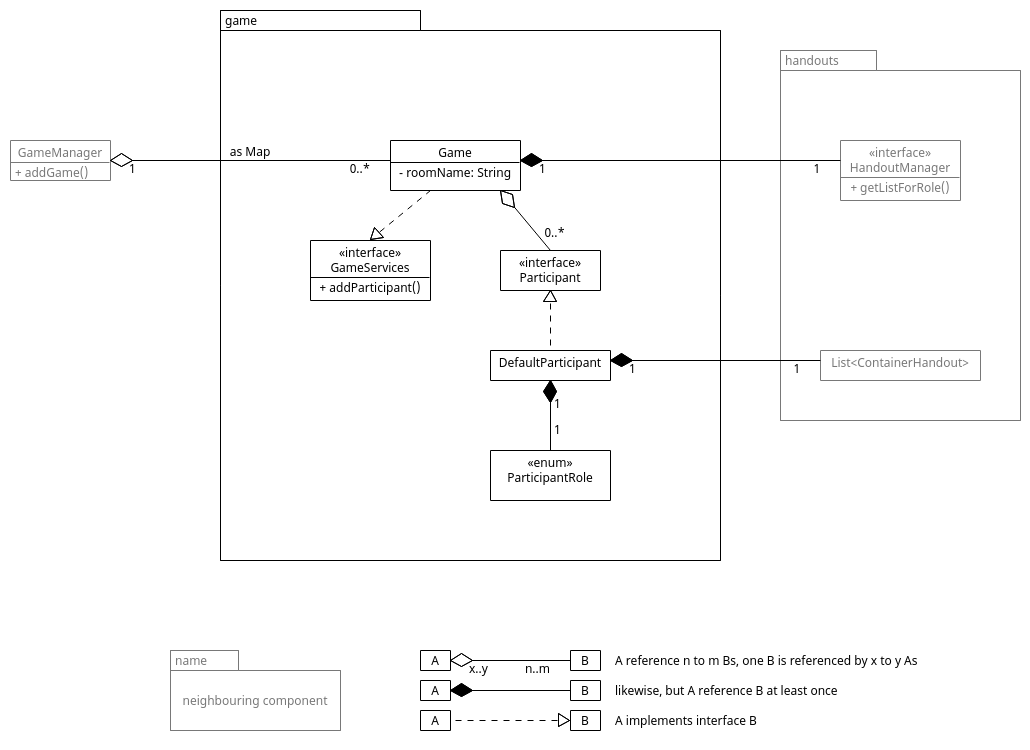
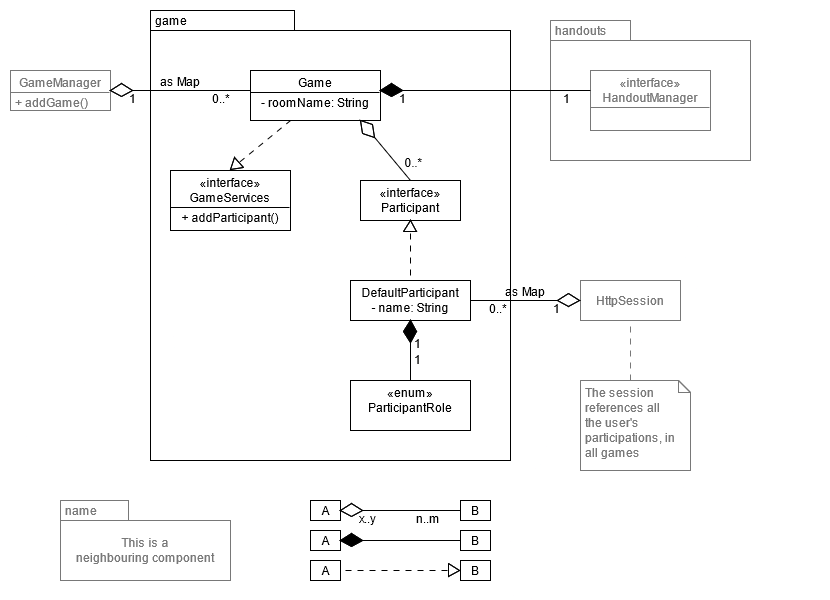
Streamlined architecture of the handouts component
A list of HandoutAccessGuards is now used for building user specific
views on the list of handouts. A direct access to such views from the
class Participant is not necessary anymore.

diff --git a/src/main/java/dev/dragonstb/scribevttrpg/game/handouts/DefaultHandoutManager.java b/src/main/java/dev/dragonstb/scribevttrpg/game/handouts/DefaultHandoutManager.java
@@ -28,7 +28,9 @@ package dev.dragonstb.scribevttrpg.game.handouts;
 
 import dev.dragonstb.scribevttrpg.game.ParticipantRole;
 import java.util.ArrayList;
+import java.util.HashMap;
 import java.util.List;
+import java.util.Map;
 import org.springframework.lang.NonNull;
 
 /**
@@ -40,14 +42,23 @@ public class DefaultHandoutManager implements HandoutManager {
 
     /** List of all handouts. This is the list the gm acts on. */
     private final List<ContainerHandout> allHandouts = new ArrayList<>();
+
+    /** List of the handout gards that track the access rights. */
+    private final Map<String, HandoutAccessGuard> guards = new HashMap<>();
+
     /** The list of handouts the spectators can sse. Entries of this list are a subset of the entries in
-     * {@code allHandouts}. */
+     * {@code allHandouts}.
+     @deprecated since 0.0.6 Access now managed by a list of {@link HandoutAccessGuards}.*/
+    @Deprecated
     private final List<ContainerHandout> spectatorHandouts = new ArrayList<>();
     /** For each player, a list of handouts the player can see. Each entry in any of these lists is also an entry in
-     * {@code allHandouts}. */
+     * {@code allHandouts}.
+     @deprecated since 0.0.6 Access now managed by a list of {@link HandoutAccessGuards}.*/
+    @Deprecated
     private final List<List<ContainerHandout>> playerLists = new ArrayList<>();
 
     @Override
+    @Deprecated
     public List<ContainerHandout> getListForRole(ParticipantRole role) {
         List<ContainerHandout> list = switch( role ) {
             case gm -> {
@@ -70,8 +81,10 @@ public class DefaultHandoutManager implements HandoutManager {
      * @author Dragonstb
      * @since 0.0.4;
      * @return The list of all handouts.
+     * @deprecated since 0.0.6 Access to individual handout pieces is now managed by a list of {@link HandoutAccessGuards}.
      */
     @NonNull
+    @Deprecated
     List<ContainerHandout> getAllHandouts() {
         // TODO: do we need this method outside of unit tests?
         return allHandouts;
@@ -81,8 +94,10 @@ public class DefaultHandoutManager implements HandoutManager {
      * @author Dragonstb
      * @since 0.0.4;
      * @return The list of handouts the spectators can read.
+     * @deprecated since 0.0.6 Access to individual handout pieces is now managed by a list of {@link HandoutAccessGuards}.
      */
     @NonNull
+    @Deprecated
     List<ContainerHandout> getSpectatorHandouts() {
         // TODO: do we need this method outside of unit tests?
         return spectatorHandouts;
@@ -92,11 +107,45 @@ public class DefaultHandoutManager implements HandoutManager {
      * @author Dragonstb
      * @since 0.0.4;
      * @return The list of lists of handouts for players. Each player has his/her own list.
+     * @deprecated since 0.0.6 Access to individual handout pieces is now managed by a list of {@link HandoutAccessGuards}.
      */
     @NonNull
+    @Deprecated
     List<List<ContainerHandout>> getPlayerLists() {
         // TODO: do we need this method outside of unit tests?
         return playerLists;
     }
 
+    @Override
+    public void addHandout( @NonNull ContainerHandout handout ) {
+        List<AbstractHandoutPiece> preleminaryList = new ArrayList<>();
+        addPiece( handout, preleminaryList ); // populates preleminaryMap, may throw IllegalArgumentException
+        preleminaryList.forEach( piece -> {
+            HandoutAccessGuard guard = new HandoutAccessGuard( piece );
+            guards.put( piece.getId(), guard );
+        });
+        allHandouts.add( handout );
+    }
+
+    /** Checks if the ID of any of the handout pieces in the argument ({@code piece} can be a container) is already
+     * listet in {@code guards}. If the argument is indeed a container, this becomes flattened.
+     * @author Dragonstb
+     * @param piece The handout piece that becomes added eventually.
+     * @param preleminaryList In the end, a flattened list of the handout pieces in case {@code piece} is a
+     * {@link dev.dragonstb.scribevttrpg.game.handouts.ContainerHandout ContainerHandout}. Enter an empty list here. The
+     * argument and all nested pieces are added to this list.
+     * @throws IllegalArgumentException When an ID is already taken.
+     */
+    private void addPiece( @NonNull AbstractHandoutPiece piece, @NonNull List<AbstractHandoutPiece> preleminaryList) {
+        String id = piece.getId();
+        if( guards.containsKey( id ) && guards.get(id) != null ) {
+            throw new IllegalArgumentException("Key already in use.");
+        }
+        preleminaryList.add( piece );
+
+        if( piece instanceof ContainerHandout container) {
+            List<AbstractHandoutPiece> children = container.getPieces();
+            children.forEach(child -> addPiece(child, preleminaryList) );
+        }
+    }
 }

diff --git a/src/main/java/dev/dragonstb/scribevttrpg/game/handouts/HandoutAccessGuard.java b/src/main/java/dev/dragonstb/scribevttrpg/game/handouts/HandoutAccessGuard.java
@@ -1,5 +1,5 @@
 /*
- * Copyright (c) 2023, Dragonstb
+ * Copyright (c) 2024, Dragonstb
  * All rights reserved.
  *
  * Redistribution and use in source and binary forms, with or without
@@ -26,42 +26,42 @@
 
 package dev.dragonstb.scribevttrpg.game.handouts;
 
-import dev.dragonstb.scribevttrpg.game.ParticipantRole;
+import java.util.ArrayList;
 import java.util.List;
 import org.springframework.lang.NonNull;
 
-/** Manages handouts.
+/** This class references a {@link dev.dragonstb.scribevttrpg.game.handouts.AbstractHandoutPiece handout piece} and
+ * tracks who can access the handout piece in which way. An implementation of {@link dev.dragonstb.scribevttrpg.game.handouts.HandoutManager HandoutManager}
+ * can use a map <i>id of handout piece to access guard<i> for building user specific views and for referencing the correct
+ * guard when addressing a certain piece.
  *
  * @author Dragonstb
- * @since 0.0.4;
+ * @since 0.0.6;
  */
-public interface HandoutManager {
+final class HandoutAccessGuard {
 
-    /** Depending on the role specified, this method returns either the gm's list of handouts, the spectators'
-     * list of handouts, or a new, empty list for a player.
-     * @author Dragonstb
-     * @since 0.0.4;
-     * @param role The role for which a list is returned.
-     * @return Either
-     * <ul>
-     *  <li> for {@code gm}, the list of all handouts. This list is shared among all gms (as soon as multiple gms become
-     * allowed.)</li>
-     *  <li> for {@code player}, a new ans empty instance of a list.</li>
-     *  <li> or for {@code spectator}, the list of handouts seen by the spectators. This list is shared among all
-     * spectators, too.</li>
-     * </ul>
-     * @deprecated since 0.0.6 Access to individual handout pieces is now managed by a list of {@link HandoutAccessGuards}.
-     */
+    /** The handout piece this guard tracks the access rights for. */
     @NonNull
-    @Deprecated
-    public List<ContainerHandout> getListForRole(@NonNull ParticipantRole role);
+    private final AbstractHandoutPiece handout;
 
-    /** Adds the handout to the handout manager. The container and all of the content within can only be accessed by
-     * the GM.
-     * @author Dragonstb
+    /** IDs of players who can read the handout piece. */
+    @NonNull
+    private final List<String> playerCanRead = new ArrayList<>();
+
+    /** IDs of players who can edit the handout piece. */
+    @NonNull
+    private final List<String> playerCanEdit = new ArrayList<>();
+
+    /** Can spectators see this handout piece? */
+    private boolean spectatorsCanRead = false;
+
+    /** Generates.
      * @since 0.0.6
-     * @param handout Handout that is added.
+     * @param handout The handout piece guarded by the new instance.
      */
-    public void addHandout(@NonNull ContainerHandout handout);
+    HandoutAccessGuard( AbstractHandoutPiece handout ) {
+        this.handout = handout;
+    }
+
 
 }

diff --git a/src/main/java/dev/dragonstb/scribevttrpg/game/DefaultParticipant.java b/src/main/java/dev/dragonstb/scribevttrpg/game/DefaultParticipant.java
@@ -27,6 +27,7 @@
 package dev.dragonstb.scribevttrpg.game;
 
 import dev.dragonstb.scribevttrpg.game.handouts.ContainerHandout;
+import java.util.ArrayList;
 import java.util.List;
 import org.springframework.lang.NonNull;
 
@@ -42,7 +43,10 @@ public class DefaultParticipant implements Participant{
     /** The role the participant has in the game session. */
     @NonNull private final ParticipantRole role;
     /** Lists of handouts that can be read by the participant. To some of these, there might also be write access.
-     * Definitly the participant cannot write on handouts he/she cannot see. */
+     * Definitly the participant cannot write on handouts he/she cannot see.
+     * @deprecated since 0.0.6: Request to handouts are forwarded from the API controller to the handout manager
+     * directly, not anymore via this detour. The Participant is a pure informative class now.
+     */
     @NonNull private final List<ContainerHandout> handouts;
 
     /** Generates.
@@ -50,9 +54,9 @@ public class DefaultParticipant implements Participant{
      * @since 0.0.4;
      * @param role The role the participant occupies.
      */
-    private DefaultParticipant(@NonNull ParticipantRole role, @NonNull List<ContainerHandout> handouts) {
+    private DefaultParticipant(@NonNull ParticipantRole role) {
         this.name = "TODO: make name constructable";
-        this.handouts = handouts;
+        this.handouts = new ArrayList<>();
         this.role = role;
     }
 
@@ -64,7 +68,7 @@ public class DefaultParticipant implements Participant{
      * @return A new instance.
      */
     public static DefaultParticipant create(@NonNull ParticipantRole role, @NonNull List<ContainerHandout> handouts) {
-        DefaultParticipant part = new DefaultParticipant(role, handouts);
+        DefaultParticipant part = new DefaultParticipant(role);
         return part;
     }
 

diff --git a/src/main/java/dev/dragonstb/scribevttrpg/GameManager.java b/src/main/java/dev/dragonstb/scribevttrpg/GameManager.java
@@ -33,6 +33,8 @@ import java.util.HashMap;
 import java.util.Map;
 import java.util.Optional;
 import org.springframework.beans.factory.annotation.Autowired;
+import org.springframework.context.ApplicationContext;
+import org.springframework.context.annotation.AnnotationConfigApplicationContext;
 import org.springframework.lang.NonNull;
 import org.springframework.stereotype.Component;
 
@@ -50,6 +52,7 @@ public class GameManager {
     /** Lists all ongoing games. The keys are the room names of the games. */
     @NonNull
     private final Map<String, Game> games = new HashMap<>();
+    ApplicationContext appCtx;
 
     // TODO: delete stale games somehow
 
@@ -62,6 +65,7 @@ public class GameManager {
      * @throws RuntimeException Room name has been taken by someone else.
      */
     public Game createGame(String roomName) throws IllegalArgumentException, RuntimeException {
+        // TODO: synchronize, as two GMs may want to open two rooms with the same name at the same time
         if( roomName == null || roomName.length() < settings.getMinRoomNameLength() ) {
             throw new IllegalArgumentException( "name of the room must have at least "
                     +settings.getMinRoomNameLength()+" characters." );

diff --git a/src/main/java/dev/dragonstb/scribevttrpg/game/Participant.java b/src/main/java/dev/dragonstb/scribevttrpg/game/Participant.java
@@ -30,7 +30,7 @@ import dev.dragonstb.scribevttrpg.game.handouts.ContainerHandout;
 import java.util.List;
 import org.springframework.lang.NonNull;
 
-/** Methods that a participant of a game is asked to execute by other classes.
+/** Some data about the participant.
  *
  * @author Dragonstb
  * @since 0.0.4;
@@ -57,6 +57,8 @@ public interface Participant {
      * @author Dragonstb
      * @since 0.0.4;
      * @return The handouts the participant can see.
+     * @deprecated since 0.0.6: Request to handouts are forwarded from the API controller to the handout manager
+     * directly, not anymore via this detour. The Participant is a pure informative class now.
      */
     @NonNull
     public List<ContainerHandout> getHandouts();
